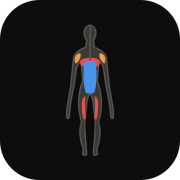
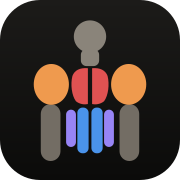
Corpo realcado na ficha do exercicio e icone legivel no iOS
O que pinta o corpo passa a ser estado separado da ficha aberta: fechar a
ficha mantinha a selecao mas apagava a coloracao, que e exatamente o que
se quer ver. Uma faixa acima do corpo agora narra o que esta pintado e
oferece como limpar.

A ficha do exercicio ganha o proprio corpo com alternancia frente/costas,
para ver os musculos sem fechar nada.

Icone refeito como torso em blocos: a 60px na tela inicial a figura
inteira virava um risco cinzento ilegivel. Mais as meta tags que o iOS
exige para "Adicionar a Tela de Inicio" abrir como app.

diff --git a/src/App.tsx b/src/App.tsx
@@ -15,11 +15,18 @@ import { FichaAtividade } from './components/exercicios/FichaAtividade'
 import { FichaLesao, LesoesAba } from './components/lesoes/LesoesAba'
 import { SessaoAba } from './components/sessao/SessaoAba'
 import { BarraAbas } from './components/shell/BarraAbas'
+import { FaixaRealce } from './components/shell/Comuns'
 
 export default function App() {
   const [aba, navegar] = useAbaHash()
   const [vista, setVista] = useState<Vista>('frente')
   const [camada, setCamada] = useState<Camada>('superficial')
+
+  // O que PINTA o corpo e o que ABRE a ficha sao coisas diferentes. Antes eram
+  // o mesmo estado, e fechar a ficha apagava a coloracao — que e justamente o
+  // que se quer ver depois de fechar a ficha.
+  const [atividadeRealcada, setAtividadeRealcada] = useState<AtividadeId | null>(null)
+  const [lesaoRealcada, setLesaoRealcada] = useState<LesaoId | null>(null)
 
   const [musculoAberto, setMusculoAberto] = useState<MusculoId | null>(null)
   const [atividadeAberta, setAtividadeAberta] = useState<AtividadeId | null>(null)
@@ -47,22 +54,35 @@ export default function App() {
     [sessao, lesoesAtivas, camada],
   )
 
-  // Toda a coloração do corpo sai daqui: funções puras que devolvem tons
-  // semânticos. O renderizador nunca sabe de onde veio.
+  // Uma fonte de cada vez, com precedencia explicita, para a FaixaRealce
+  // conseguir sempre dizer em uma linha o que esta na tela.
+  const fonte = useMemo(() => {
+    if (atividadeRealcada) {
+      const a = atividadePorId.get(atividadeRealcada)
+      if (a) return { rotulo: a.nome, detalhe: 'músculos trabalhados', mapa: realceDeAtividade(a) }
+    }
+    if (lesaoRealcada) {
+      const l = lesaoPorId.get(lesaoRealcada)
+      if (l) return { rotulo: l.nome, detalhe: 'o que fortalecer e alongar', mapa: realceDeLesao(l) }
+    }
+    if (sessao.length > 0) {
+      return {
+        rotulo: 'Cobertura da sessão',
+        detalhe: `${sessao.length} ${sessao.length === 1 ? 'exercício' : 'exercícios'}`,
+        mapa: realceDeSessao(resultado),
+      }
+    }
+    return null
+  }, [atividadeRealcada, lesaoRealcada, sessao.length, resultado])
+
+  // O musculo tocado vai por cima em dourado (precedencia 'selecionado'), sem
+  // apagar as cores de nivel do que estava pintado.
   const realces: MapaDeRealce = useMemo(() => {
     const fontes: MapaDeRealce[] = []
-    if (atividadeAberta) {
-      const a = atividadePorId.get(atividadeAberta)
-      if (a) fontes.push(realceDeAtividade(a))
-    } else if (lesaoAberta) {
-      const l = lesaoPorId.get(lesaoAberta)
-      if (l) fontes.push(realceDeLesao(l))
-    } else if (aba === 'sessao' && sessao.length > 0) {
-      fontes.push(realceDeSessao(resultado))
-    }
+    if (fonte) fontes.push(fonte.mapa)
     if (musculoAberto) fontes.push(realceDeMusculo(musculoAberto))
     return fundirRealces(...fontes)
-  }, [atividadeAberta, lesaoAberta, musculoAberto, aba, sessao.length, resultado])
+  }, [fonte, musculoAberto])
 
   const abrirMusculo = useCallback((id: MusculoId | null) => {
     setMusculoAberto(id)
@@ -75,14 +95,51 @@ export default function App() {
   const abrirAtividade = useCallback((id: AtividadeId | null) => {
     setAtividadeAberta(id)
     if (id) {
+      setAtividadeRealcada(id)
+      setLesaoRealcada(null)
       setMusculoAberto(null)
       setLesaoAberta(null)
     }
   }, [])
 
-  // Fora da aba do mapa, o corpo continua visível como painel de contexto —
-  // é o que faz a coloração por exercício e por sessão ser útil.
-  const mostraCorpoAuxiliar = aba !== 'mapa'
+  const abrirLesao = useCallback((id: LesaoId | null) => {
+    setLesaoAberta(id)
+    if (id) {
+      setLesaoRealcada(id)
+      setAtividadeRealcada(null)
+      setMusculoAberto(null)
+      setAtividadeAberta(null)
+    }
+  }, [])
+
+  const limparRealce = useCallback(() => {
+    setAtividadeRealcada(null)
+    setLesaoRealcada(null)
+    setMusculoAberto(null)
+  }, [])
+
+  const tons = useMemo(() => [...new Set([...realces.values()].map((e) => e.tom))], [realces])
+
+  // Fora da aba do mapa, o corpo continua visivel como painel de contexto —
+  // e o que faz a coloracao por exercicio e por sessao ser util.
+  const painelCorpo = aba !== 'mapa' && (
+    <div className="mb-4 flex flex-col gap-2">
+      {fonte && (
+        <FaixaRealce rotulo={fonte.rotulo} detalhe={fonte.detalhe} onLimpar={limparRealce} />
+      )}
+      <div className="h-64 md:h-80">
+        <Corpo
+          vista={vista}
+          camada={camada}
+          realces={realces}
+          selecionado={musculoAberto}
+          onSelecionar={abrirMusculo}
+        />
+      </div>
+      <SeletorVista vista={vista} camada={camada} onVista={setVista} onCamada={setCamada} />
+      <Legenda tons={tons} />
+    </div>
+  )
 
   return (
     <div className="flex h-full flex-col md:flex-row">
@@ -104,29 +161,24 @@ export default function App() {
                 selecionado={musculoAberto}
                 onSelecionar={abrirMusculo}
                 realces={realces}
+                faixa={
+                  fonte && (
+                    <FaixaRealce
+                      rotulo={fonte.rotulo}
+                      detalhe={fonte.detalhe}
+                      onLimpar={limparRealce}
+                    />
+                  )
+                }
               />
             </div>
           )}
 
-          {mostraCorpoAuxiliar && (
-            <div className="mb-4 flex flex-col gap-2">
-              <div className="h-56 md:h-72">
-                <Corpo
-                  vista={vista}
-                  camada={camada}
-                  realces={realces}
-                  selecionado={musculoAberto}
-                  onSelecionar={abrirMusculo}
-                />
-              </div>
-              <SeletorVista vista={vista} camada={camada} onVista={setVista} onCamada={setCamada} />
-              <Legenda tons={[...new Set([...realces.values()].map((e) => e.tom))]} />
-            </div>
-          )}
+          {painelCorpo}
 
           {aba === 'exercicios' && (
             <ExerciciosAba
-              selecionada={atividadeAberta}
+              realcada={atividadeRealcada}
               sessao={sessao}
               onSelecionar={abrirAtividade}
               onAlternarSessao={alternarSessao}
@@ -134,11 +186,7 @@ export default function App() {
           )}
 
           {aba === 'queixas' && (
-            <LesoesAba
-              ativas={lesoesAtivas}
-              onSelecionar={setLesaoAberta}
-              onAlternarAtiva={alternarLesao}
-            />
+            <LesoesAba ativas={lesoesAtivas} onSelecionar={abrirLesao} onAlternarAtiva={alternarLesao} />
           )}
 
           {aba === 'sessao' && (

diff --git a/src/components/exercicios/FichaAtividade.tsx b/src/components/exercicios/FichaAtividade.tsx
@@ -1,4 +1,6 @@
+import { useMemo, useState } from 'react'
 import { atividadePorId, musculoPorId } from '../../data'
+import { realceDeAtividade } from '../../lib/realce'
 import {
   NIVEIS,
   ROTULO_NIVEL,
@@ -7,7 +9,10 @@ import {
   type Atividade,
   type AtividadeId,
   type MusculoId,
+  type Vista,
 } from '../../types'
+import { Corpo } from '../corpo'
+import { Legenda } from '../corpo/Legenda'
 import { Folha } from '../shell/Folha'
 import { ListaSimples, NomeBilingue, Secao, SeloEvidencia } from '../shell/Comuns'
 
@@ -26,6 +31,16 @@ export function FichaAtividade({
   onAbrirAtividade: (id: AtividadeId) => void
   onAbrirMusculo: (id: MusculoId) => void
 }) {
+  const [vista, setVista] = useState<Vista>('frente')
+
+  // Realce proprio da ficha: mostra os musculos deste exercicio sem depender
+  // do corpo que esta atras da folha.
+  const realces = useMemo(
+    () => (atividade ? realceDeAtividade(atividade) : new Map()),
+    [atividade],
+  )
+  const tons = useMemo(() => [...new Set([...realces.values()].map((e) => e.tom))], [realces])
+
   if (!atividade) return null
 
   const porNivel: Record<string, MusculoId[]> = {
@@ -50,6 +65,36 @@ export function FichaAtividade({
         </>
       }
     >
+      <div className="mb-4 flex flex-col gap-2">
+        <div className="flex h-56 items-center justify-center rounded-xl border border-hairline bg-page">
+          <Corpo
+            vista={vista}
+            camada="superficial"
+            realces={realces}
+            selecionado={null}
+            onSelecionar={(id) => id && onAbrirMusculo(id)}
+          />
+        </div>
+        <div className="flex items-center justify-center gap-2">
+          <div className="flex rounded-lg border border-hairline bg-surface p-0.5">
+            {(['frente', 'costas'] as Vista[]).map((v) => (
+              <button
+                key={v}
+                type="button"
+                onClick={() => setVista(v)}
+                aria-pressed={vista === v}
+                className={`rounded-md px-3 py-1 text-xs font-medium transition-colors ${
+                  vista === v ? 'bg-accent text-white' : 'text-ink2 hover:text-ink'
+                }`}
+              >
+                {v === 'frente' ? 'Frente' : 'Costas'}
+              </button>
+            ))}
+          </div>
+        </div>
+        <Legenda tons={tons} />
+      </div>
+
       <button
         type="button"
         onClick={() => onAlternarSessao(atividade.id)}

diff --git a/src/components/shell/Comuns.tsx b/src/components/shell/Comuns.tsx
@@ -98,3 +98,39 @@ export function ListaSimples({ itens, marcador = '·' }: { itens: string[]; marc
 export function Vazio({ children }: { children: ReactNode }) {
   return <p className="py-8 text-center text-sm text-muted">{children}</p>
 }
+
+/** Narra o que está pintando o corpo neste momento. Sem isto, fechar a ficha
+ *  de um exercício deixava a coloração na tela sem nada explicando de onde
+ *  veio nem como sair dela. */
+export function FaixaRealce({
+  rotulo,
+  detalhe,
+  onLimpar,
+}: {
+  rotulo: string
+  detalhe?: string
+  onLimpar?: () => void
+}) {
+  return (
+    <div className="flex items-center gap-2 rounded-lg border border-hairline bg-surface2 px-3 py-1.5">
+      <span aria-hidden className="text-accent">
+        ◍
+      </span>
+      <p className="min-w-0 flex-1 truncate text-xs">
+        <span className="text-muted">no corpo: </span>
+        <span className="font-medium text-ink">{rotulo}</span>
+        {detalhe && <span className="text-muted"> · {detalhe}</span>}
+      </p>
+      {onLimpar && (
+        <button
+          type="button"
+          onClick={onLimpar}
+          aria-label="Limpar realce"
+          className="shrink-0 rounded px-1.5 text-base leading-none text-muted hover:text-ink"
+        >
+          ×
+        </button>
+      )}
+    </div>
+  )
+}

diff --git a/src/components/mapa/MapaAba.tsx b/src/components/mapa/MapaAba.tsx
@@ -1,4 +1,4 @@
-import { useMemo, useState } from 'react'
+import { useMemo, useState, type ReactNode } from 'react'
 import { musculos, musculoPorId } from '../../data'
 import { filtrarMusculos } from '../../lib/filtros'
 import { ROTULO_REGIAO, REGIOES, type Camada, type MapaDeRealce, type MusculoId, type Vista } from '../../types'
@@ -15,6 +15,7 @@ export function MapaAba({
   selecionado,
   onSelecionar,
   realces,
+  faixa,
 }: {
   vista: Vista
   camada: Camada
@@ -23,6 +24,7 @@ export function MapaAba({
   selecionado: MusculoId | null
   onSelecionar: (id: MusculoId | null) => void
   realces: MapaDeRealce
+  faixa?: ReactNode
 }) {
   const [busca, setBusca] = useState('')
   const [mostrarLista, setMostrarLista] = useState(false)
@@ -35,6 +37,7 @@ export function MapaAba({
 
   return (
     <div className="flex h-full flex-col gap-3">
+      {faixa}
       <SeletorVista vista={vista} camada={camada} onVista={onVista} onCamada={onCamada} />
 
       <div className="min-h-0 flex-1">

diff --git a/src/components/exercicios/ExerciciosAba.tsx b/src/components/exercicios/ExerciciosAba.tsx
@@ -20,12 +20,13 @@ const EQUIPAMENTOS: Equipamento[] = [
 ]
 
 export function ExerciciosAba({
-  selecionada,
+  realcada,
   sessao,
   onSelecionar,
   onAlternarSessao,
 }: {
-  selecionada: AtividadeId | null
+  /** A que esta pintando o corpo agora — nao a que tem ficha aberta. */
+  realcada: AtividadeId | null
   sessao: AtividadeId[]
   onSelecionar: (id: AtividadeId | null) => void
   onAlternarSessao: (id: AtividadeId) => void
@@ -111,7 +112,7 @@ export function ExerciciosAba({
               <li key={a.id}>
                 <CartaoAtividade
                   atividade={a}
-                  ativo={a.id === selecionada}
+                  ativo={a.id === realcada}
                   naSessao={sessao.includes(a.id)}
                   onAbrir={() => onSelecionar(a.id)}
                   onAlternarSessao={() => onAlternarSessao(a.id)}

diff --git a/index.html b/index.html
@@ -6,6 +6,12 @@
     <link rel="apple-touch-icon" href="/humano/apple-touch-icon.png" />
     <meta name="viewport" content="width=device-width, initial-scale=1, viewport-fit=cover" />
     <meta name="theme-color" content="#0d0d0d" />
+    <!-- iOS: sem estas, "Adicionar a Tela de Inicio" abre no Safari com barra
+         de endereco em vez de abrir como app. -->
+    <meta name="apple-mobile-web-app-capable" content="yes" />
+    <meta name="mobile-web-app-capable" content="yes" />
+    <meta name="apple-mobile-web-app-status-bar-style" content="black-translucent" />
+    <meta name="apple-mobile-web-app-title" content="humano" />
     <meta
       name="description"
       content="Mapa muscular interativo, catalogo de exercicios e construtor de sessao."
